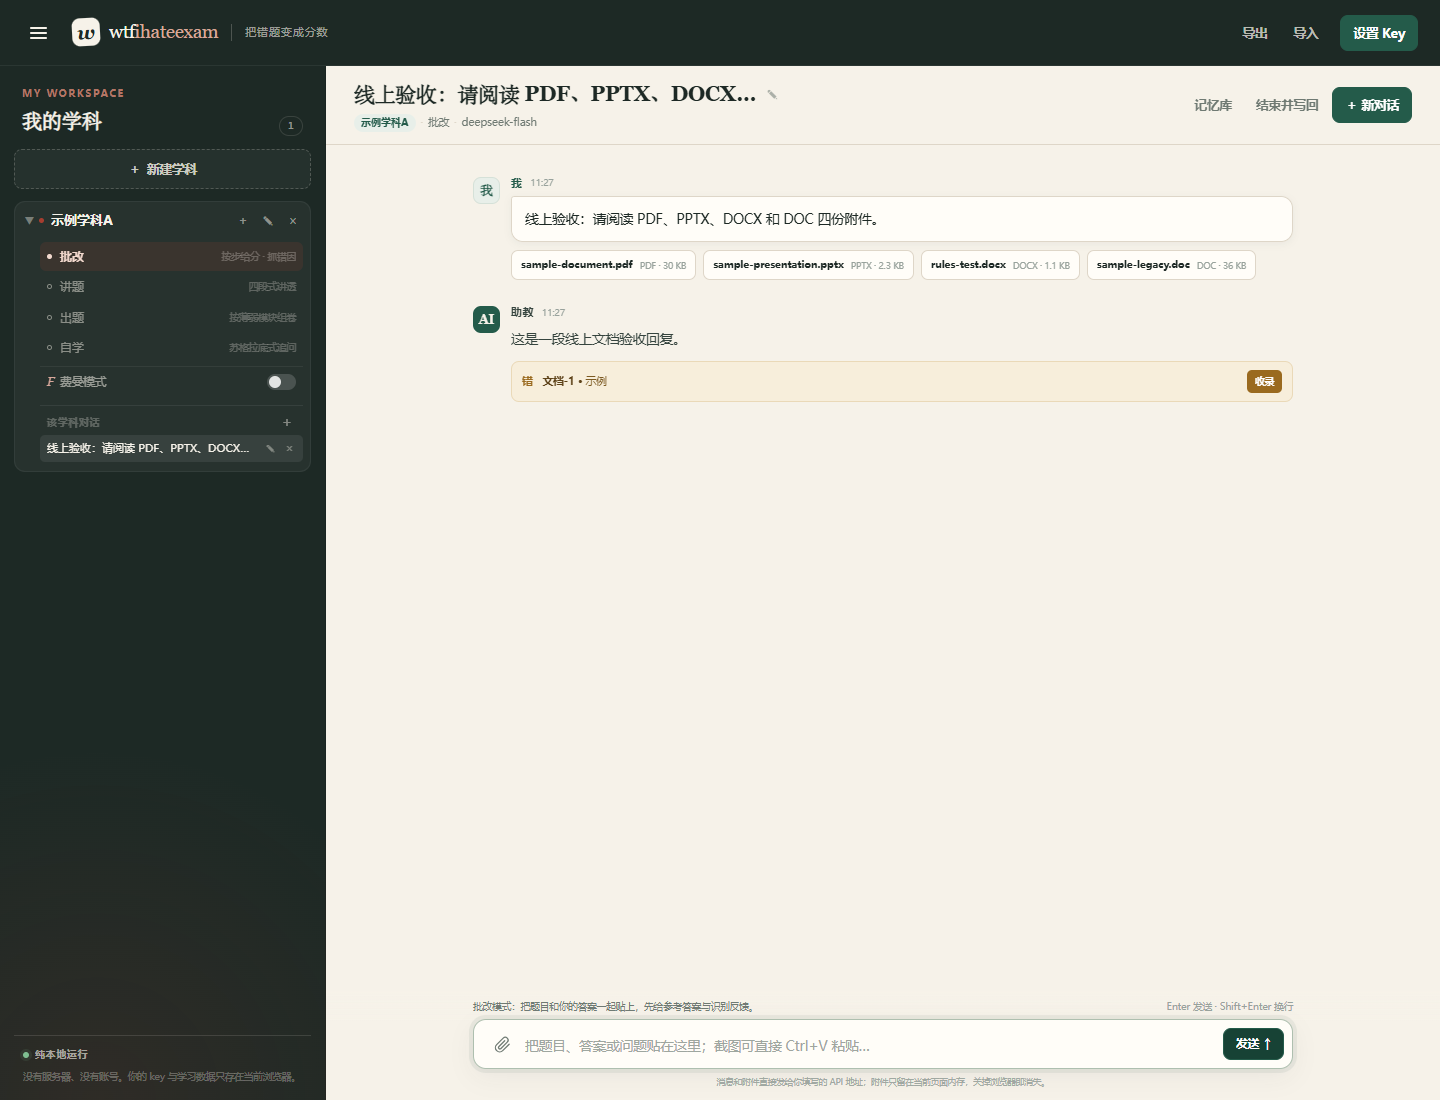
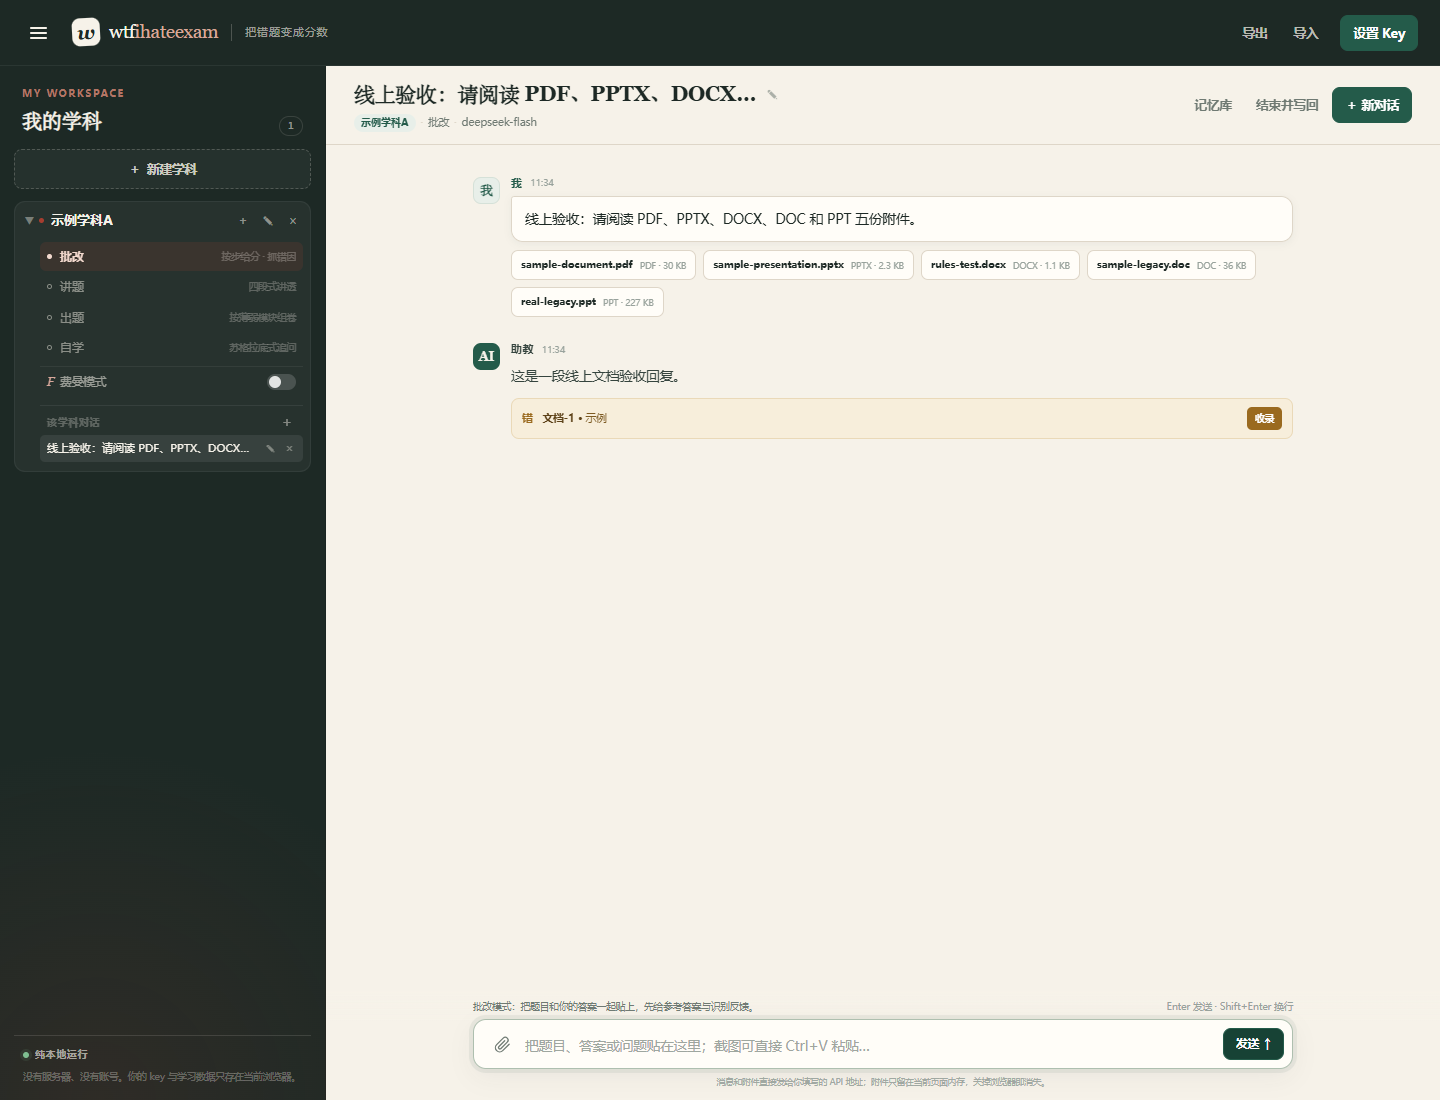
docs: show legacy ppt in document screenshot

Changed region(s): [[0.3125, 0.2473, 0.4688, 0.4018], [0.8438, 0.34, 0.9062, 0.4018], [0.5312, 0.1855, 0.625, 0.2164]]

diff --git a/README.md b/README.md
@@ -64,7 +64,7 @@ wtfihateexam 把一次学习收束成一个闭环：
 
 ![图片和文档附件](docs/attachment.png)
 
-![PDF、PPTX、DOCX、旧版 DOC 文档附件](docs/documents.png)
+![PDF、PPTX、DOCX、旧版 DOC/PPT 文档附件](docs/documents.png)
 
 ![公式渲染](docs/math.png)
 
